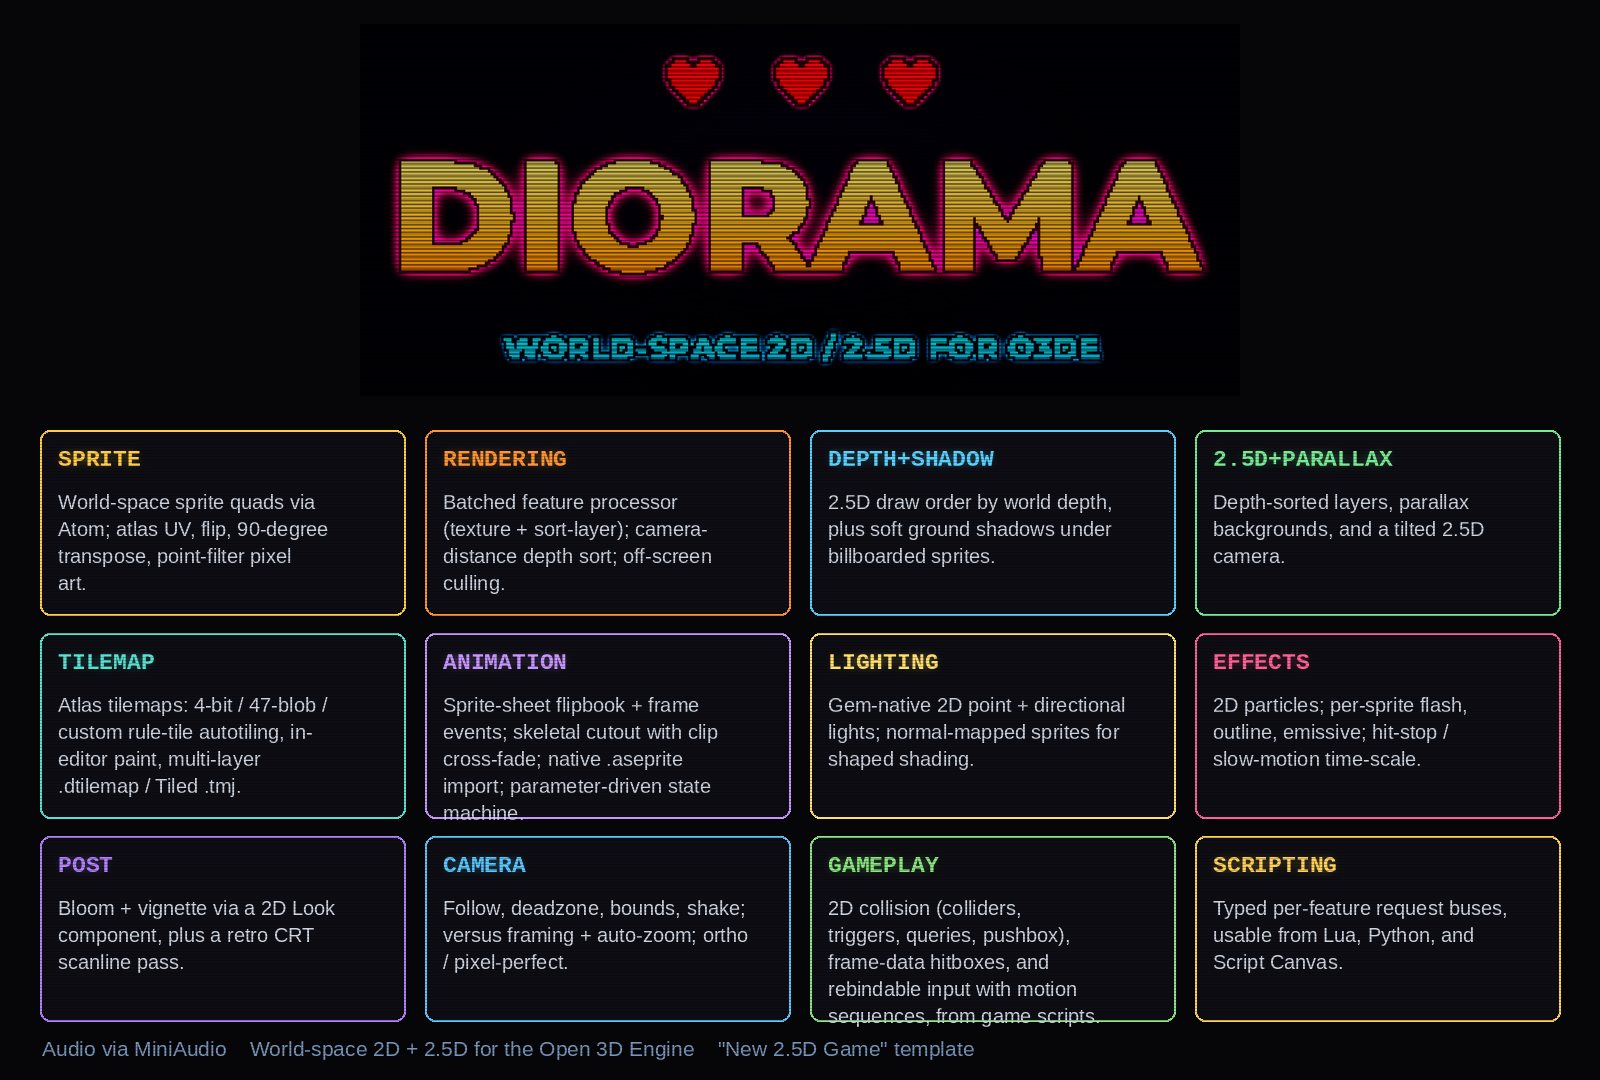
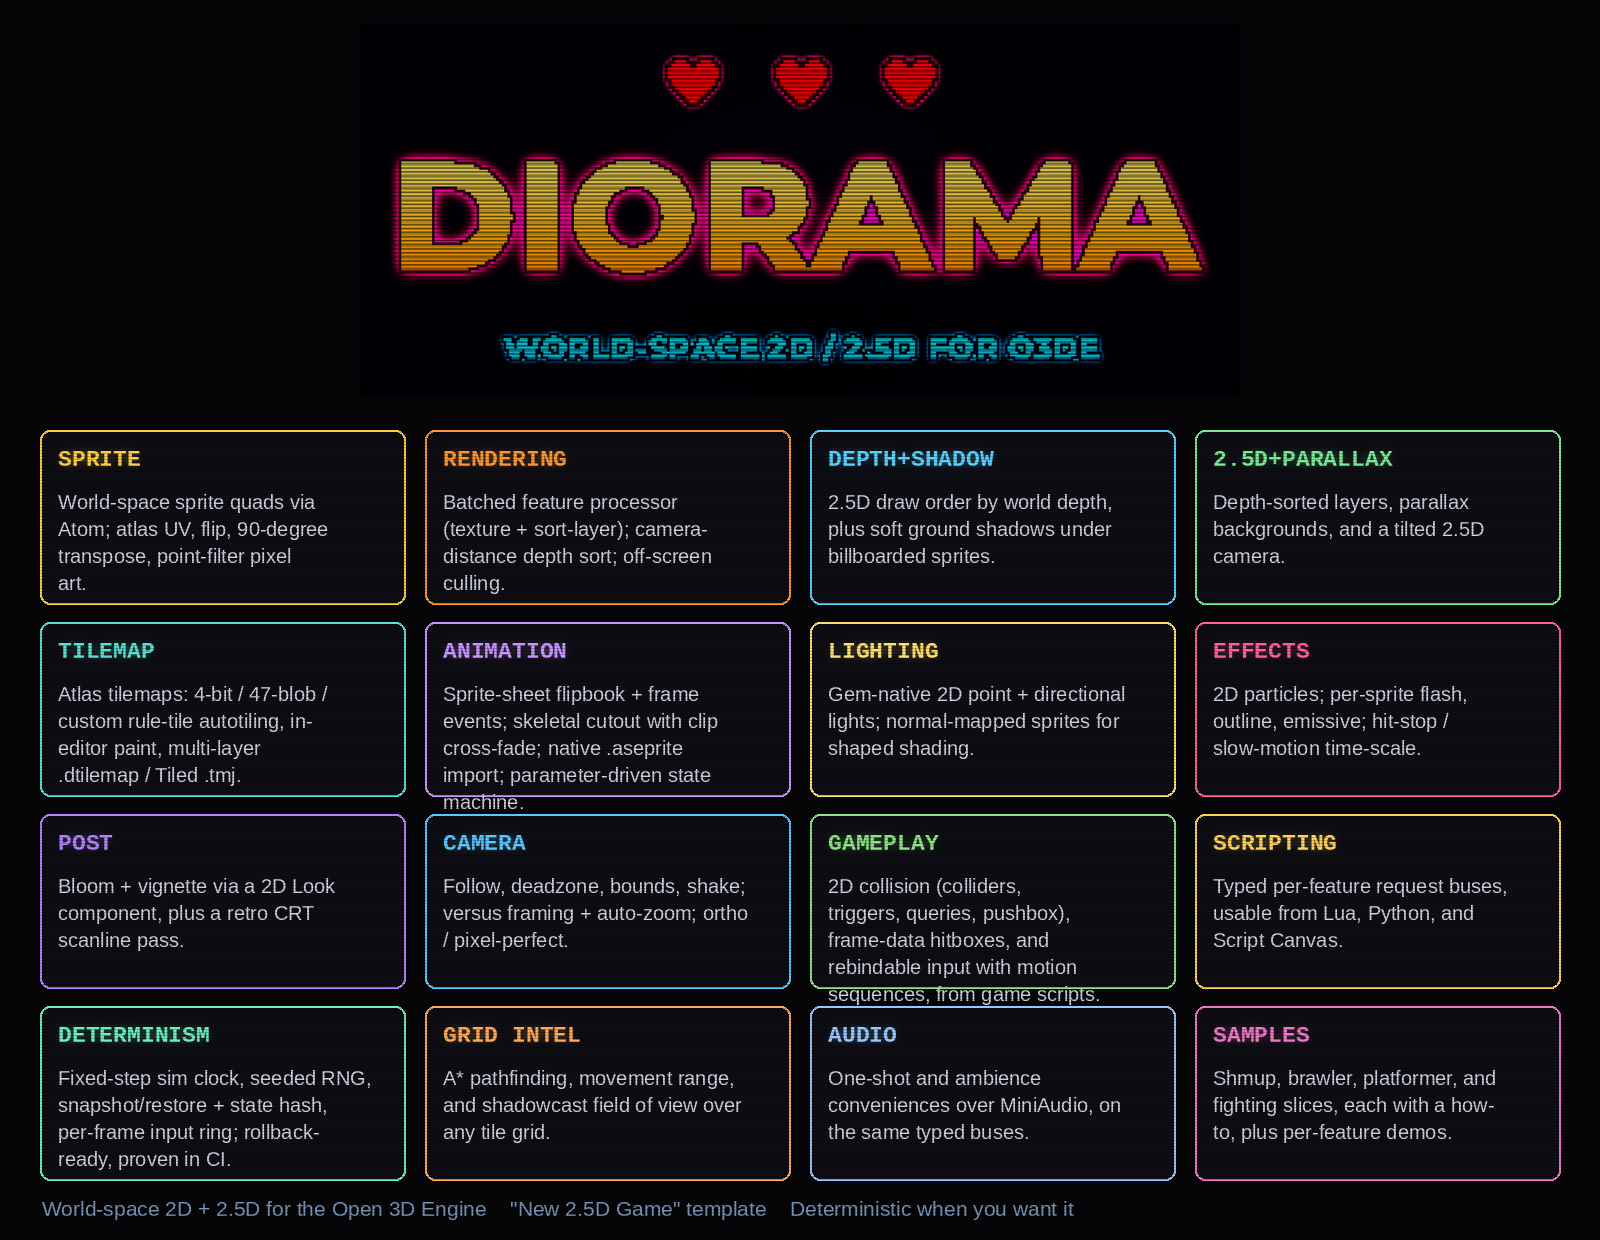
Docs: deterministic sim shipped + regenerated At a glance card (#116)
* Docs: deterministic sim shipped; regenerate the "At a glance" card (4x4)

- Roadmap: the fighting v3 bullet's deterministic-sim half flips to Shipped
  (phases A-D), with the render-tick component migration named as the
  follow-up; the typed-box half stays design-only.
- Design doc status: 2d-deterministic-sim.md is shipped, pointing at how-to 30.
- README: three Simulation rows in the feature table, refreshed alt text.
- "At a glance" card: the grid grows to 4x4 with four new tiles that were
  shipped but missing from the card (determinism, grid intelligence, audio,
  samples); taller canvas, footer updated.

* Architecture: the deterministic simulation layer, catalog + cores refresh

- New section with a flow diagram covering the three contracts: the fixed-step
  heartbeat (clock + seeded RNG), the frame image (marker registry, tagged
  chunks, canonical buffer, hash, slots, untrusted restore), and the input log
  (per-frame ring that replays on re-simulation and survives a restore).
- The feature catalog gains the rows it was missing: animation state machine,
  input actions + motions, day/night cycle, the 2D simulation clock, and the
  simulation state marker.
- The pure-core list adds InputActionMap, SimClock, SimRandom, and SimState.

Changed region(s): [[0.0312, 0.0306, 0.9688, 0.9778], [0.7188, 0.9167, 0.75, 0.9472]]

diff --git a/scripts/gen_feature_card.py b/scripts/gen_feature_card.py
@@ -14,7 +14,7 @@ SANS = "/usr/share/fonts/liberation-sans-fonts/LiberationSans-%s.ttf"
 def mono(sz): return ImageFont.truetype(MONO % "Bold", sz)
 def sans(sz): return ImageFont.truetype(SANS % "Regular", sz)
 
-W, H = 1600, 1080
+W, H = 1600, 1240
 img = Image.new("RGBA", (W, H), (6, 6, 9, 255))     # near-black arcade field
 d = ImageDraw.Draw(img)
 
@@ -46,8 +46,12 @@ TILES = [
     ("CAMERA", (90, 200, 255), "Follow, deadzone, bounds, shake; versus framing + auto-zoom; ortho / pixel-perfect."),
     ("GAMEPLAY", (140, 230, 130), "2D collision (colliders, triggers, queries, pushbox), frame-data hitboxes, and rebindable input with motion sequences, from game scripts."),
     ("SCRIPTING", (255, 210, 90), "Typed per-feature request buses, usable from Lua, Python, and Script Canvas."),
+    ("DETERMINISM", (110, 240, 190), "Fixed-step sim clock, seeded RNG, snapshot/restore + state hash, per-frame input ring; rollback-ready, proven in CI."),
+    ("GRID INTEL", (255, 170, 90), "A* pathfinding, movement range, and shadowcast field of view over any tile grid."),
+    ("AUDIO", (150, 200, 255), "One-shot and ambience conveniences over MiniAudio, on the same typed buses."),
+    ("SAMPLES", (240, 120, 200), "Shmup, brawler, platformer, and fighting slices, each with a how-to, plus per-feature demos."),
 ]
-cols, rows = 4, 3
+cols, rows = 4, 4
 mx, top_y, gx, gy = 40, 30 + lh + 28, 20, 18
 tw = (W - 2 * mx - (cols - 1) * gx) // cols
 th = (H - top_y - 58 - (rows - 1) * gy) // rows
@@ -61,7 +65,7 @@ for i, (title, col, desc) in enumerate(TILES):
         d.text((cx + 18, yy), line, font=dfont, fill=(206, 212, 224, 255)); yy += 27
 
 # footer (no version)
-d.text((mx + 2, H - 44), "Audio via MiniAudio    World-space 2D + 2.5D for the Open 3D Engine    \"New 2.5D Game\" template",
+d.text((mx + 2, H - 44), "World-space 2D + 2.5D for the Open 3D Engine    \"New 2.5D Game\" template    Deterministic when you want it",
        font=sans(21), fill=(120, 150, 185, 255))
 
 # --- CRT scanlines over the whole card, to match the logo ---

diff --git a/Docs/architecture.md b/Docs/architecture.md
@@ -338,6 +338,11 @@ a `Common`-scoped request bus at AI/human parity. The full catalog:
 | CRT overlay | `DioramaCRTComponent` | `DioramaCRTRequestBus` | [16](howto/16-crt.md) |
 | Skeletal animation | `DioramaSkeletalClipComponent` | `DioramaSkeletalRequestBus` | [18](howto/18-skeletal.md) |
 | Aseprite animation | `DioramaAsepriteComponent` | `DioramaAsepriteRequestBus` | [19](howto/19-aseprite.md) |
+| Animation state machine | `DioramaAnimStateMachineComponent` | `DioramaAnimStateMachineRequestBus` | [22](howto/22-anim-state-machine.md) |
+| Input actions + motions | `DioramaInputComponent` | `DioramaInputRequestBus` | [23](howto/23-input-actions.md) |
+| Day/night cycle | `DioramaDayNightComponent` | `DioramaDayNightRequestBus` | [28](howto/28-day-night.md) |
+| 2D simulation clock | `DioramaSimClockComponent` | `DioramaSimClockRequestBus` / `DioramaRandomRequestBus` | [30](howto/30-deterministic-sim.md) |
+| Simulation state marker | `DioramaSimStateComponent` | (enrolls the entity; no script verbs) | [30](howto/30-deterministic-sim.md) |
 
 Each effect-style feature (light, particle, look, CRT) embeds its own presenter or
 applies to the scene's Atom feature processor; the data-style features (skeletal,
@@ -349,8 +354,9 @@ Look and Skeletal twins add **edit-mode previews** (bloom A/B, pose scrubbing).
 
 The pure, engine-free cores that back these (`SpriteBatchPlan`, `SpriteCull`,
 `Collision2D`, `Camera2D`, `Particles2D`, `TilemapPaint`, `SkeletalClip`,
-`AsepriteImport`, `MotionInput`, `HitboxFrames`, `BulletPattern`, `SlopeCollision`,
-`DepthLane`, `Pathfinding`, `MovementRange`, `FieldOfView`, `DayNightCycle`) are header/`.cpp` pairs unit-tested on their own, the same way the
+`AsepriteImport`, `InputActionMap`, `MotionInput`, `HitboxFrames`, `BulletPattern`,
+`SlopeCollision`, `DepthLane`, `Pathfinding`, `MovementRange`, `FieldOfView`,
+`DayNightCycle`, `SimClock`, `SimRandom`, `SimState`) are header/`.cpp` pairs unit-tested on their own, the same way the
 config helpers are. `SpriteCull` is the off-screen reject: the feature processor
 builds the view frustum once per frame and skips packing/drawing any sprite whose
 bounding sphere is fully outside the side planes (conservative, so it never hides a
@@ -387,6 +393,71 @@ The gem ships an O3DE project template, `Diorama2DGame` (under `Templates/`), bu
 on the engine's stock project template with the Diorama gem enabled and 2.5D starter
 content added. `o3de create-project --template-name Diorama2DGame` scaffolds a
 ready-to-build 2.5D project. See [How-To: the template](howto/20-template.md).
+
+## The deterministic simulation layer
+
+Everything above runs on the render tick. The deterministic layer (opt-in: add a
+**2D Simulation Clock** to the level) re-bases gameplay on fixed steps, so the same
+inputs replay to the same result on any machine running the same build: the
+foundation for replays, training-mode rewind, and rollback netcode readiness
+([design](design/2d-deterministic-sim.md), [how-to 30](howto/30-deterministic-sim.md)).
+The netcode itself stays with O3DE Multiplayer or middleware; the gem owns the
+simulation contract.
+
+```mermaid
+flowchart LR
+    subgraph clock [2D Simulation Clock]
+        TICK[render tick dt] --> ACC[SimClock accumulator]
+        ACC -->|whole fixed steps| SIM[OnSimTick frame, stepSeconds]
+        RNG[SimRandom seeded RNG]
+    end
+
+    SIM --> GP[gameplay scripts]
+    SIM --> RING[input ring per-frame records]
+    INJ[InjectActionState] --> RING
+    RING -->|replay on re-simulation| GP
+
+    subgraph snapshot [frame image]
+        CAP[CaptureFrame] --> REG[registry: Simulation State markers]
+        REG -->|SaveSimState chunks| BUF[canonical LE buffer]
+        BUF --> HASH[GetStateHash FNV-1a]
+        BUF --> SLOTS[slots 0-7]
+        SLOTS --> RES[RestoreFrame]
+        RES -->|TryRestoreChunk| COMP[hitbox rig, bullet pool, translation]
+    end
+
+    clock --> snapshot
+```
+
+Three contracts make it hold together:
+
+1. **The heartbeat.** The clock turns variable render time into whole fixed steps
+   (catch-up capped, backlog dropped) and broadcasts `OnSimTick` once per step.
+   Gameplay that advances there, drawing randomness from the clock's seeded RNG,
+   simulates in exact frames.
+2. **The frame image.** Entities carrying the **Simulation State** marker enroll in
+   `CaptureFrame`: each snapshot-capable component appends tagged chunks (the
+   marker itself contributes the world translation; the hitbox rig and bullet pool
+   contribute their combat state) into a canonical little-endian buffer, ordered by
+   entity id so the image and its `GetStateHash` are run-independent. Restore
+   treats the buffer as untrusted: bounds-checked reads, version checks, hostile
+   sizes rejected, chunks for vanished entities skipped. Scripts use the eight
+   snapshot slots; a C++ rollback layer keeps its own buffer history.
+3. **The input log.** In sim-clock mode the input component samples once per fixed
+   step into a ring of recent frames, queryable by frame and overwritable through
+   `InjectActionState`. On re-simulation after a restore the ring **replays**
+   recorded frames rather than re-sampling devices, and the ring deliberately
+   survives the restore: state rolls back, the input log does not, which is
+   exactly the shape a rollback loop needs (restore, inject the late inputs,
+   step back to the present).
+
+The determinism audit that came with the layer also fixed real ordering bugs in
+the shared systems: collision query results and push-out accumulation now iterate
+in sorted entity-id order instead of hash-map order. A headless determinism proof
+(`DeterminismTest.cpp`) runs in the normal suite, so every PR re-proves that a
+scripted run replays from a restored snapshot to bit-identical per-frame hashes.
+The named follow-up is migrating the render-tick components (bullet emitter,
+hitbox evaluation, sprite animation) onto the sim clock.
 
 ## Extending the gem
 

diff --git a/Docs/roadmap.md b/Docs/roadmap.md
@@ -298,15 +298,20 @@ Missing table-stakes (no design doc yet):
   flash + camera trauma). Builds on the existing frame events, versus camera, hit-stop,
   and pushbox pieces. Charge-motion hold timing stays game-side; rollback *readiness*
   has since moved in-gem as a designed v3 (next bullet).
-- **Fighting building blocks v3: deterministic sim + typed boxes** (L). **Design
-  done**, two companion docs, not started. (1)
-  [design/2d-deterministic-sim.md](design/2d-deterministic-sim.md): an opt-in
-  fixed-tick sim clock (`OnSimTick`, pause/single-step), full snapshot/restore of
-  gem sim state (`CaptureFrame`/`RestoreFrame` + `GetStateHash`), a determinism
-  audit (sorted collision-query results, seeded RNG, per-sim-frame input ring with
-  `InjectFrame`), making the 2D simulation rollback-ready; the netcode itself stays
-  with O3DE Multiplayer / middleware. Also buys deterministic replays, training-mode
-  rewind, and a headless CI determinism test. (2)
+- **Fighting building blocks v3: deterministic sim + typed boxes** (L). The
+  deterministic-sim half is **Shipped** (phases A-D, PRs #112/#115/#114); the typed-box
+  half remains design-only. (1)
+  [design/2d-deterministic-sim.md](design/2d-deterministic-sim.md) **Shipped**
+  ([howto/30-deterministic-sim.md](howto/30-deterministic-sim.md)): the opt-in **2D
+  Simulation Clock** (`OnSimTick`, pause/single-step, seeded RNG), snapshot/restore
+  (`CaptureFrame`/`RestoreFrame`, `GetStateHash`, script-facing slots) with hitbox-rig
+  and bullet-pool coverage plus the Simulation State marker, the determinism audit
+  fixes (sorted collision-query results and push-out accumulation, raycast
+  tie-breaks), the per-sim-frame input ring with `InjectActionState`, a rewind
+  sample, and a headless determinism proof that runs in CI on every PR. The netcode
+  itself stays with O3DE Multiplayer / middleware; migrating the render-tick
+  components (bullets, hitboxes, sprite animation) onto the sim clock is the named
+  follow-up. (2)
   [design/2d-box-interactions.md](design/2d-box-interactions.md): the hitbox rig
   grows typed kinds (pushbox, throwbox/throwable, armor, proximity), per-box
   **attack payloads** (damage, hit/block/hit-stop frames, pushback, guard height,

diff --git a/Docs/design/2d-deterministic-sim.md b/Docs/design/2d-deterministic-sim.md
@@ -1,6 +1,9 @@
 # Design: deterministic fixed-tick simulation and rollback-ready state
 
-Status: **design approved, not started.** Companion doc:
+Status: **shipped** (phases A-D, PRs #112/#115/#114; see
+[howto/30-deterministic-sim.md](../howto/30-deterministic-sim.md)). The named
+follow-up is migrating the render-tick components (bullet emitter, hitbox rig,
+sprite/Aseprite animation) onto the sim clock. Companion doc:
 [2d-box-interactions.md](2d-box-interactions.md) (typed boxes + attack payloads).
 Driver: competitive fighting games of the SF6 / GGST class, which all ship rollback
 netcode. Rollback has three prerequisites that must be designed into the simulation

diff --git a/README.md b/README.md
@@ -48,7 +48,7 @@ freely mixed with 3D geometry, lighting, particles, and post effects. See
 ## At a glance
 
 <p align="center">
-  <img src="Docs/images/diorama-features.png" alt="Diorama feature overview: sprites, rendering, depth and shadows, 2.5D and parallax, tilemap, animation, lighting, effects, post, camera, gameplay, scripting" width="900">
+  <img src="Docs/images/diorama-features.png" alt="Diorama feature overview: sprites, rendering, depth and shadows, 2.5D and parallax, tilemap, animation, lighting, effects, post, camera, gameplay, scripting, determinism, grid intelligence, audio, samples" width="900">
 </p>
 
 ## Feature status
@@ -77,6 +77,9 @@ freely mixed with 3D geometry, lighting, particles, and post effects. See
 | Input | Motion inputs (numpad sequences: quarter-circle, dragon-punch) | Working |
 | Gameplay | 2.5D brawler depth lanes (depth lift/sort + depth-aware combat) | Working |
 | Gameplay | Grid intelligence cores: FOV/fog, movement range, A* pathfinding | Working |
+| Simulation | Fixed-step 2D Simulation Clock (`OnSimTick`, pause/single-step) + seeded RNG | Working |
+| Simulation | Snapshot/restore with state hash + slots (rollback-ready; CI determinism proof) | Working |
+| Simulation | Per-sim-frame input ring: frame queries + `InjectActionState` (replays, bots, rollback) | Working |
 | 2.5D | Parallax background layers | Working |
 | Camera | 2D camera controller (follow, deadzone, bounds, shake) | Working |
 | Camera | Versus framing (two-target midpoint) + distance zoom/dolly | Working |